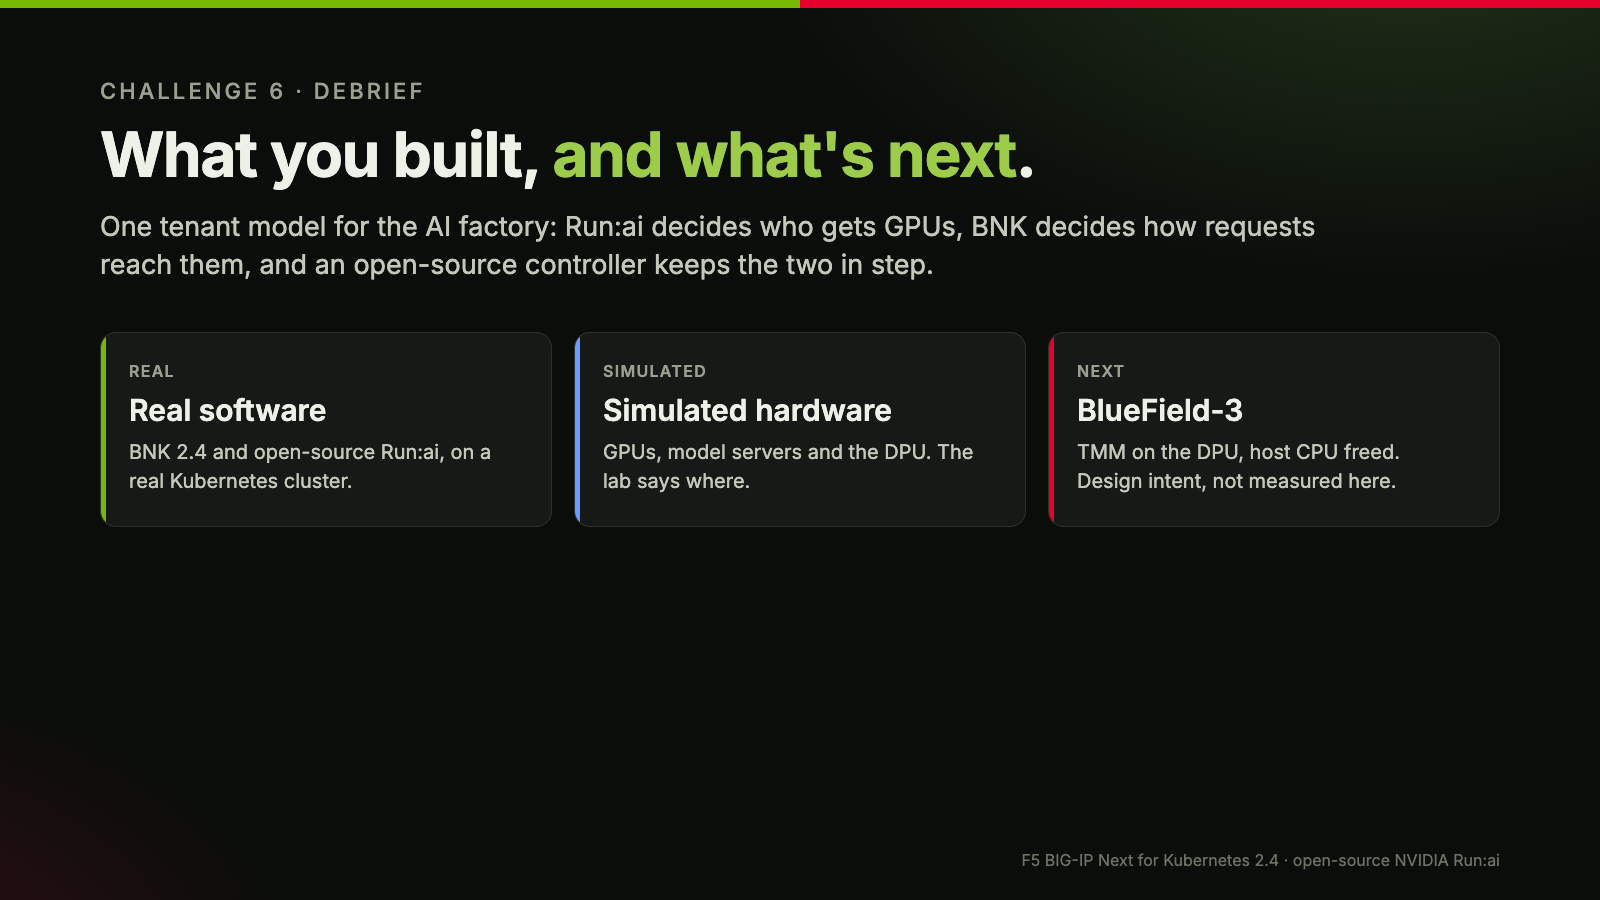
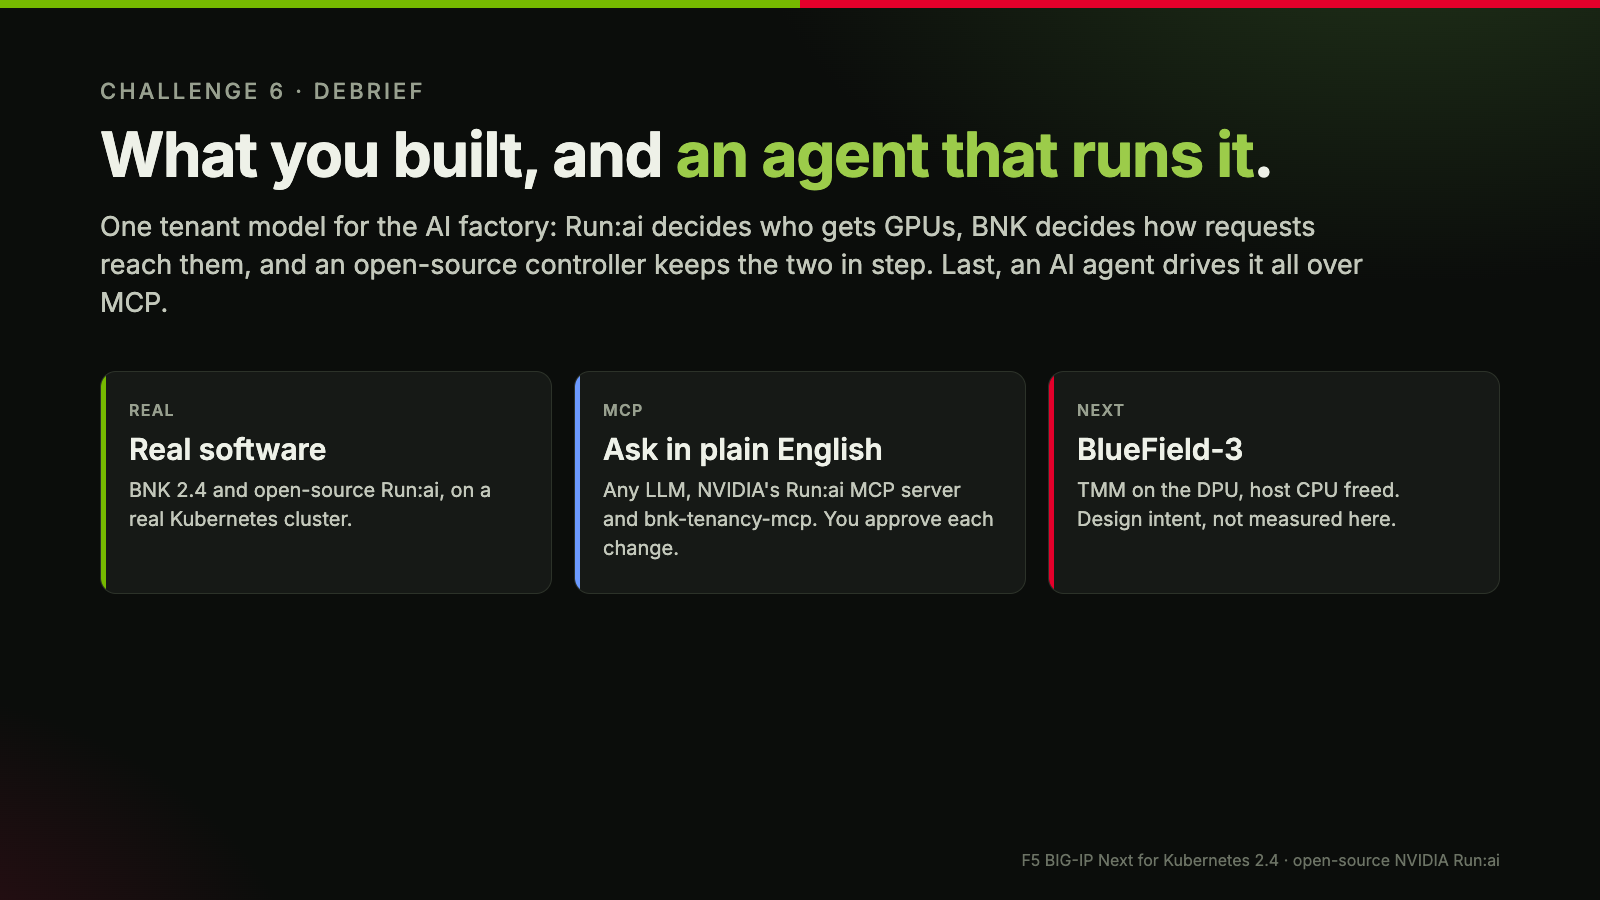
Challenge 6 visuals: MCP agent in the recap diagram and notes slide; Dynamo, vLLM twin and Mocker named accurately

diff --git a/instruqt/bnk-runai/notes-src/slides_02_06.py b/instruqt/bnk-runai/notes-src/slides_02_06.py
@@ -147,18 +147,22 @@ def metering() -> str:
 
 def recap() -> str:
     left = '<div class="col" style="width:640px">' + box(
-        "nv", "Run:ai &middot; owns the GPU", "Projects, departments, quotas, priority, GPU fractions, scheduling",
-        "node: runai + gpu") + box(
+        "bl", "AI agent &middot; any LLM, over MCP", "Asks for a tenant in plain English. NVIDIA's Run:ai MCP "
+        "server creates the project, <b>bnk-tenancy-mcp</b> reports its front door. A human approves every change",
+        "LLM: Nemotron") + box(
+        "nv", "Run:ai &middot; owns the GPU", "Projects, departments, quotas, priority, GPU fractions, scheduling. "
+        "NVIDIA Dynamo runs as one more project", "node: runai + gpu") + box(
         "am", "Tenancy controller + token meter &middot; open source", "Project &rarr; Gateway, route, pool, picker, "
         "rate limit, priority. Tokens &rarr; Prometheus and back onto the Project", "node: control") + box(
-        "f5", "BNK 2.4 &middot; owns the request", "Front door per tenant, 429 before the GPU, Endpoint Picker, "
-        "token metering at the edge", "node: dpu (simulated)") + box(
-        "gy", "GPUs and models", "4 &times; A10 from fake-gpu-operator, vLLM simulator", "node: gpu") + '</div>'
+        "f5", "BNK 2.4 &middot; owns the request", "Front door per tenant, 429 before the GPU, Endpoint Picker "
+        "(vLLM and Dynamo modes), token metering at the edge", "node: dpu (simulated)") + box(
+        "gy", "GPUs and models", "4 &times; A10 from fake-gpu-operator, vLLM twin and Dynamo Mocker workers", "node: gpu") + '</div>'
     rows = [
         ("Real", "#3d6b00", "BNK 2.4 data and control plane, Run:ai control plane and scheduler, "
-         "Kubernetes, the controller, the 429s, the Endpoint Picker, the metrics path"),
-        ("Simulated", "#5d6470", "GPUs (fake-gpu-operator), model servers (vLLM simulator, synthetic tokens), "
-         "the BlueField DPU (a separate node with a tunnel)"),
+         "Kubernetes, the controller, the 429s, the Endpoint Picker, the metrics path, the Dynamo operator "
+         "and its KV-cache events, both MCP servers and the LLM the agent talks to"),
+        ("Simulated", "#5d6470", "GPUs (fake-gpu-operator), model servers (vLLM twin and Dynamo Mocker: real tokenizer, "
+         "no model weights), the BlueField DPU (a separate node with a tunnel)"),
         ("Design intent", "#c4001f", "On a BlueField-3, TMM runs on the DPU and frees host CPU for the GPU "
          "server. Not measured in this lab."),
     ]
@@ -200,14 +204,14 @@ def build(h) -> dict:
              c(h.NV, "Run:ai", "Written back", "tokens-total on the Project, rolled up into the Department.")]), 1600, 900),
         "notes-06": (s(
             "Challenge 6 &middot; Debrief",
-            "What you built, <em>and what's next</em>.",
+            "What you built, and <em>an agent that runs it</em>.",
             "One tenant model for the AI factory: Run:ai decides who gets GPUs, BNK decides how requests "
-            "reach them, and an open-source controller keeps the two in step.",
+            "reach them, and an open-source controller keeps the two in step. Last, an AI agent drives it all over MCP.",
             [c(h.NV, "Real", "Real software", "BNK 2.4 and open-source Run:ai, on a real Kubernetes cluster."),
-             c(h.BL, "Simulated", "Simulated hardware", "GPUs, model servers and the DPU. The lab says where."),
+             c(h.BL, "MCP", "Ask in plain English", "Any LLM, NVIDIA's Run:ai MCP server and bnk-tenancy-mcp. You approve each change."),
              c(h.F5, "Next", "BlueField-3", "TMM on the DPU, host CPU freed. Design intent, not measured here.")]), 1600, 900),
         "02-tenant-flow": (tenant_flow(), 1400, 372),
         "03-isolation": (isolation(), 1400, 300),
         "04-metering": (metering(), 1400, 318),
-        "06-recap": (recap(), 1400, 410),
+        "06-recap": (recap(), 1400, 560),
     }
